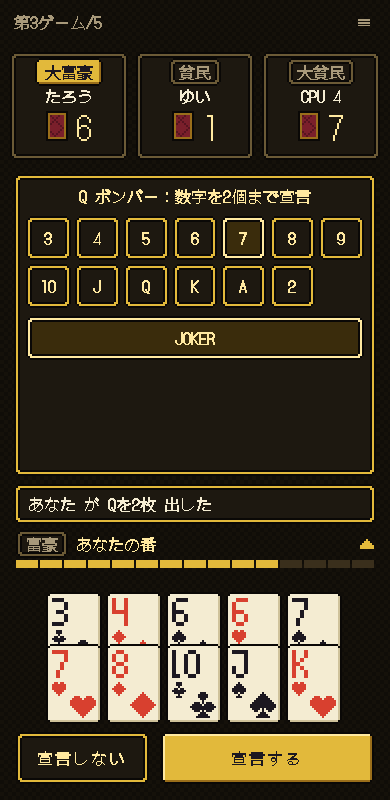
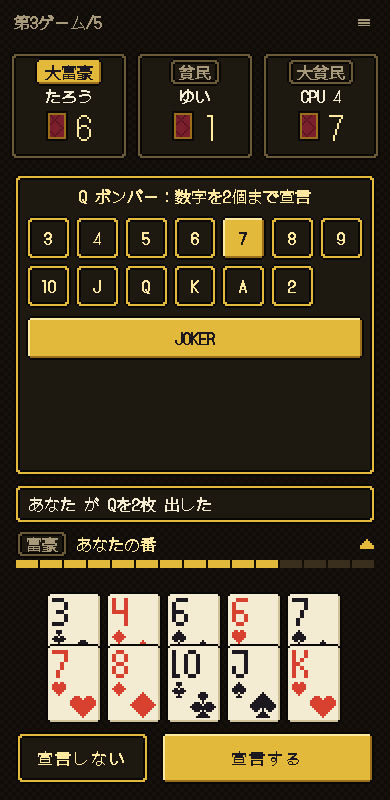
client: Q ボンバーの数字と闇市の相手の「選択中」を金の塗りにそろえる（ユーザーが承認した提案）。画像を撮り直す。docs: decisions §19 をユーザーが確認して採用と記録

Changed region(s): [[0.0615, 0.375, 0.9538, 0.4688], [0.5538, 0.25, 0.6769, 0.3438]]

diff --git a/packages/client/src/screens/ChoicePanels.tsx b/packages/client/src/screens/ChoicePanels.tsx
@@ -1,10 +1,10 @@
 // 選択の待ちのうち、場の枠の位置に枠を出すもの（design-4 §4.2）。
 // 闇市は強奪の枠と同じ形（相手の名前のボタンを縦に並べる）、Q ボンバーは独裁の枠と同じ形（数字のボタンを7列）。
-// 見た目は特権の選択の枠（Abilities.module.css）と同じクラスを使う。選んでいるボタンは、特権のボタンの開いている形（f hot hi）。
+// 見た目は特権の選択の枠（Abilities.module.css）と同じクラスを使う。選んでいるボタンは金の塗り（f btn。「N枚を出す」と同じ枠）、選んでいないボタンは金の線の枠（f btn2）。
 // 「使わない」「宣言しない」と送るボタンは、ほかの選択と同じく画面の下のボタンの欄に出す。
 
 import type { CallRank, SeatId } from '@chofugo/engine';
-import { CALL_RANKS, callLabel, callPrompt, TRADE_PROMPT, tradeTargetCount } from '../lib/choice.ts';
+import { CALL_RANKS, callLabel, callPrompt, pickFrame, TRADE_PROMPT, tradeTargetCount } from '../lib/choice.ts';
 import s from './Abilities.module.css';
 
 /** 闇市：相手を選ぶ枠。ボタンは名前と残り枚数。もう一度押すと外れる。 */
@@ -29,11 +29,12 @@ export function TradePanel({
       <div className={s.targets}>
         {targets.map((t) => {
           const on = target === t;
+          const frame = pickFrame(on);
           return (
             <button
               key={t}
               type="button"
-              className={`f ${on ? 'hot hi' : 'btn2'} ${s.btn} ${s.target}`}
+              className={`f ${frame} ${s.btn} ${s.target}${frame === 'btn' ? ` ${s.picked}` : ''}`}
               aria-pressed={on}
               disabled={disabled}
               onClick={() => onTarget(on ? null : t)}
@@ -62,11 +63,12 @@ export function CallPanel({
 }) {
   const btn = (r: CallRank, extra = '') => {
     const on = picked.includes(r);
+    const frame = pickFrame(on);
     return (
       <button
         key={String(r)}
         type="button"
-        className={`f ${on ? 'hot hi' : 'btn2'} ${s.rank} ${extra}`}
+        className={`f ${frame} ${s.rank}${frame === 'btn' ? ` ${s.picked}` : ''} ${extra}`}
         aria-pressed={on}
         aria-label={r === 'joker' ? 'ジョーカー' : callLabel(r)}
         disabled={disabled}

diff --git a/packages/client/src/screens/Abilities.module.css b/packages/client/src/screens/Abilities.module.css
@@ -111,7 +111,7 @@
 /* 闇市の相手のボタン（第2段階、design-4 §4.2）：強奪の枠の名前のボタンと同じ大きさ。名前は枠の幅で切り、残り枚数は必ず見せる */
 /* グローバルの .btn2（display: grid）に読み込み順によらず勝つよう、.targets の中で指定する */
 .targets .target {
-  /* 選んだとき（f hot hi）はグローバルの .btn2 が外れるので、余白と字間を自前で持ち、押しても文字がずれないようにする */
+  /* 選んだとき（f btn）と選んでいないとき（f btn2）で文字がずれないよう、余白と字間を自前で持つ */
   padding: 0 8px;
   letter-spacing: 2px;
   display: flex;
@@ -126,4 +126,17 @@
 }
 .targetCount {
   flex: none;
+}
+
+/* 闇市の相手・Q ボンバーの数字の、選んでいるボタン（金の塗りの .btn、client-assumptions J5・J6）。
+   グローバルの .btn（min-height 52px・padding 0 8px・letter-spacing 2px）に読み込み順によらず勝つよう、2つのクラスで指定し、
+   選んでいないとき（.btn2）と同じ大きさ・文字の位置にする（数字の升は 44px・余白と字間 0、相手のボタンは高さ 44px。余白と字間は .targets .target） */
+.rank.picked {
+  min-height: 44px;
+  height: 44px;
+  padding: 0;
+  letter-spacing: 0;
+}
+.target.picked {
+  min-height: 44px;
 }

diff --git a/packages/client/src/lib/stage2.test.ts b/packages/client/src/lib/stage2.test.ts
@@ -12,6 +12,7 @@ import {
   choicePrompt,
   chooseBody,
   nextGift,
+  pickFrame,
   SKIP_CHOOSE_BODY,
   toggleCall,
   toggleChoice,
@@ -123,6 +124,13 @@ describe('闇市の枚数の決まり（decisions §19.3）', () => {
     expect(trimForTrade(['club-3', 'spade-6'], null)).toEqual(['club-3', 'spade-6']);
     // 相手を選んだあとは、ちょうどの枚数を上限に選ぶ（超えたらいちばん前のカードと入れ替え）
     expect(toggleChoice({ max: 1 }, hand, ['spade-6'], 'club-3')).toEqual(['club-3']);
+  });
+});
+
+describe('闇市の相手・Q ボンバーの数字のボタンの枠（client-assumptions J5・J6）', () => {
+  it('選んでいるボタンだけ金の塗り（btn）、選んでいないボタンは金の線の枠（btn2）', () => {
+    expect(pickFrame(true)).toBe('btn');
+    expect(pickFrame(false)).toBe('btn2');
   });
 });
 

diff --git a/packages/client/src/lib/choice.ts b/packages/client/src/lib/choice.ts
@@ -109,6 +109,14 @@ export function tradeReady(task: Pick<ChoiceTask, 'max'>, hand: readonly CardId[
   return picked.filter((x) => hand.includes(x)).length === n;
 }
 
+/**
+ * 闇市の相手・Q ボンバーの数字のボタンの枠。選んでいるときは金の塗り（「N枚を出す」と同じ `btn`）、
+ * ふだんは金の線の枠（`btn2`）。特権のスキップの ON（abilityBarFrame）と同じ見分け方（client-assumptions J5・J6）。
+ */
+export function pickFrame(on: boolean): 'btn' | 'btn2' {
+  return on ? 'btn' : 'btn2';
+}
+
 // ---------- Q ボンバー（design-4 §4.2） ----------
 
 /** 宣言できるもの（3〜2 の13個とジョーカー）の並び。 */

diff --git a/docs/client-assumptions.md b/docs/client-assumptions.md
@@ -319,7 +319,7 @@
 ### J5. 闇市の選択
 - **仮定**:
   - 場の枠の位置に、強奪の枠と同じ枠（`f win` と同じ余白・大きさ）を出す。見出し「闇市：相手を選ぶ」、その下に `targets` の相手のボタンを縦に並べる（名前は枠の幅で切り、右に残り枚数「6枚」を必ず見せる）。
-  - 相手のボタンは押すと選び、もう一度押すと外す。選んでいないボタンは金の線の枠（`btn2`）、選んでいるボタンは特権のボタンの開いている形（`f hot hi`）。強奪の枠と違い、押してもすぐには送らない（カードと同時に送るため）ので、金の塗り（`btn`）は使わない。
+  - 相手のボタンは押すと選び、もう一度押すと外す。選んでいないボタンは金の線の枠（`btn2`）、選んでいるボタンは金の塗り（`f btn`、「N枚を出す」「スキップON」と同じ枠。文字は暗い色）。強奪の枠と違い、押してもすぐには送らない（カードと同時に送るため）。提案をユーザーが承認して直した（2026-11-18）。前の明るい枠（`f hot hi`）では選んだ相手の見分けが弱かったため。`.btn` の高さ 52px・`padding` 0 8px・`letter-spacing` 2px は、`.targets .target`（余白 0 8px・字間 2px）と `.target.picked`（高さ 44px）で選ぶ前と同じにし、ボタンの高さ・名前と枚数の位置は選んだ前後で変わらない（12文字の名前の切れ方も同じ）。押せないとき（`:disabled`）は、選んでいても既存の `.btn:disabled` の暗い枠になる。
   - 枠の中に「やめる」は置かない。「使わない」「◯枚を交換」は、ほかの選択と同じく画面の下のボタンの欄に出す。
   - 相手を選ぶ前も、手札のカードは上限（`max` = min(2, 自分の手札)）まで選べる。相手を選ぶと、ちょうどの枚数（min(上限, 相手の残り枚数)）が上限になり、多すぎる分は前に選んだものから外す（「あとから選んだカードを残す」）。相手を外しても選んだカードはそのまま。
   - メッセージの欄：相手を選ぶ前は案内を出さない（直前のメッセージのまま。枠の見出しで分かる）。相手を選んだあとは「渡すカードを◯枚選んでください」。
@@ -330,7 +330,7 @@
 - **仮定**:
   - 場の枠の位置に、独裁の枠と同じ枠を出す。見出し「Q ボンバー：数字を◯個まで宣言」、3〜9 / 10〜2 を独裁と同じ7列×2行で並べ、「JOKER」はその下に1行（独裁の「やめる」の行と同じ幅いっぱいのボタン）で出す。
   - **JOKER を数字と同じ升に入れない理由**: 幅 360px で7列の升の内側は約28px（枠の 6px を引いた分）で、「JOKER」（約40px）が入らない。文字を縮めない・略さないため、1行に分けた。
-  - 選んでいないボタンは `btn2`、選んでいるボタンは `f hot hi`（J5 と同じ）。上限を超えて押すと、いちばん前に選んだものと入れ替える。
+  - 選んでいないボタンは `btn2`、選んでいるボタンは金の塗り（`f btn`。J5 と同じ。提案をユーザーが承認して直した（2026-11-18））。`.btn` の高さ・余白・字間は `.rank.picked` で 44px・0・0 にし、数字の升の大きさと JOKER の行は選んだ前後で変わらない。独裁の枠（`btn2` だけ）は変えていない。上限を超えて押すと、いちばん前に選んだものと入れ替える。
   - メッセージの欄には案内を出さない（直前のメッセージのまま。見出しで分かる）。手札は暗くせず、押しても何も起きない（手札0枚でも同じ画面）。
   - ボタンは左「宣言しない」、右「宣言する」（1個以上で押せる）。送る内容は `cards: []` と `ranks`。「宣言しない」は `cards: []` だけ。
 
